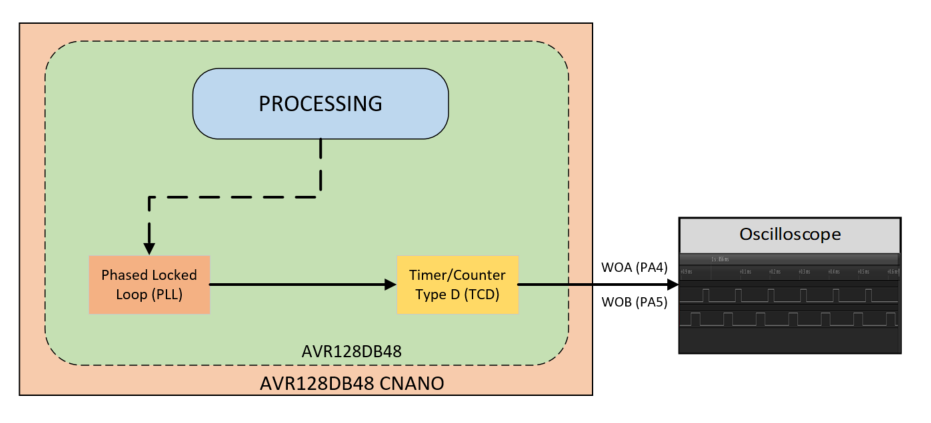
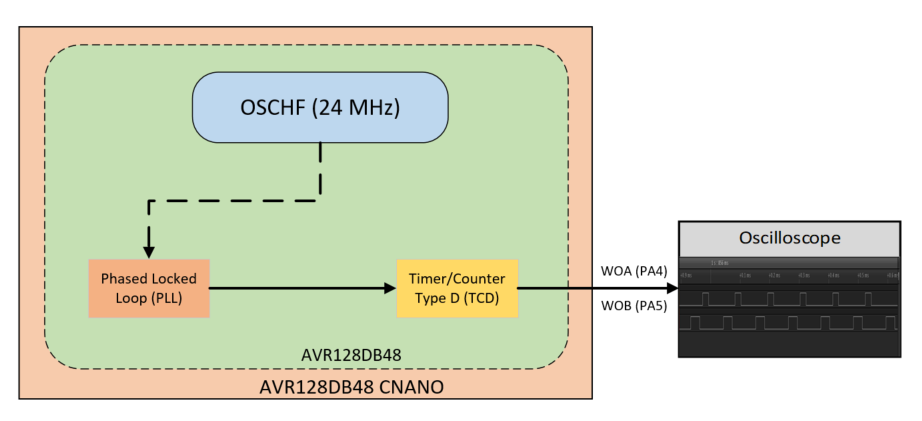
MPAE-15127 Readme File formatting post Final review

diff --git a/README.md b/README.md
@@ -4,7 +4,7 @@
 
 #  High-Frequency Clock Signal Generation for TCD using PLL and Internal High-Frequency RC Oscillator (OSCHF) using AVR128DB48
 
-This code example shows how the PLL feature of AVR128DB48 generates a high-frequency clock signal for the TCD peripheral of the AVR Dx family. In this code example, the PLL module is supplied with an OSCHF as input, to generate 48 MHz clock at its output. The generated 48 MHz clock signal is used as a clock input by the TCD peripheral.
+This code example demonstrates usage of AVR128DB48 microcontroller to generate 48MHz clock signal using PLL and OSCHF. In this code example, use of Timer/Counter type D (TCD) peripheral to realize peripheral clock frequency of 48MHz is demonstrated.
 
 ## Introduction
 
@@ -43,7 +43,27 @@ This example shows how to generate a high-frequency clock signal for the TCD per
 
 ## Application Firmware
 
-The example firmware uses a TCD peripheral to scale up the system clock frequency. In this firmware, the system clock is configured to operate at 24 MHz. The TCD peripheral is configured to run at 48 MHz with PLL as its clock input. Here, the multiplication factor is set to 2x to scale up the input clock frequency. Configure the TCD peripheral in Two Ramp mode. The compare Set and Clear registers A, B are loaded with 10 μs, 30 μs, 50 μs and 80 μs. The TCD peripheral is configured in two ramp mode. The waveform outputs are observed when the TCD peripheral is enabled.
+The example firmware uses a TCD peripheral to scale up the system clock frequency. In this firmware, the system clock is configured to operate at 24 MHz. The TCD peripheral is configured to run at 48 MHz with PLL as its clock input. Here, the PLL multiplication factor is set to 2x to scale up the input clock frequency. Configure the TCD peripheral in Two Ramp mode. The compare Set and Clear registers A, B are loaded with 10 μs, 30 μs, 50 μs and 80 μs. The TCD peripheral is configured in two ramp mode. The waveform outputs are observed when the TCD peripheral is enabled.
+
+## Demo Operation
+
+* Make the hardware connections as shown in the hardware setup. Power up the Curiosity Nano board using micro-USB cable.
+* Download the firmware available from the GitHub code example page.
+* Build the project using latest version of tools as mentioned in the Software Tools section and flash the generated file on the AVR128DB48 microcontroller.
+* Monitor the set and clear timings for waveform output A and B.
+
+<p align="center">
+  <img width=600 height=auto src="images/output_wave1.png">
+  <br>Figure 2: Wavefom Output A<br>
+</p>
+
+<p align="center">
+  <img width=600 height=auto src="images/output_wave2.png">
+  <br>Figure 3: Wavefom Output B<br>
+</p>
+
+## Conclusion
+This code example demonstrates generation of high frequency clock input to the TCD peripheral using PLL and OSCHF modules of the AVR128DB48 microcontroller. The real-world power stage control applications greatly benefitted with the TCD peripheral of AVR family of microcontrollers as it can generate high speed PWM waveform with a good resolution.
 
 ## Appendix
 
@@ -71,7 +91,7 @@ Open **Clock Control** setup present under **System** drop down menu in **Projec
 
 <p align="center">
   <img width=600 height=auto src="images/system_config.png">
-  <br>Figure 2: System Configuration<br>
+  <br>Figure 4: System Configuration<br>
 </p>
 
 * **TCD**
@@ -88,12 +108,12 @@ Open **TCD** setup present under **Driver** dropdown menu in **Project Resources
 
 <p align="center">
   <img width=600 height=auto src="images/tcd_config.png">
-  <br>Figure 3: TCD Configuration (Part-1)<br>
+  <br>Figure 5: TCD Configuration (Part-1)<br>
 </p>
 
 <p align="center">
   <img width=600 height=auto src="images/tcd_config1.png">
-  <br>Figure 4: TCD Configuration (Part-2)<br>
+  <br>Figure 6: TCD Configuration (Part-2)<br>
 </p>
 
 ## Pin Mapping
@@ -101,12 +121,12 @@ The following images informs about the pin usage in the project.
 
 <p align="center">
   <img width=600 height=auto src="images/pin_config.png">
-  <br>Figure 5: Pin Mapping (List View)<br>
+  <br>Figure 7: Pin Mapping (List View)<br>
 </p>
 
 <p align="center">
   <img width=600 height=auto src="images/pin_config1.png">
-  <br>Figure 6: Pin Mapping (Navigation View)<br>
+  <br>Figure 8: Pin Mapping (Navigation View)<br>
 </p>
 
 ## Hardware Setup
@@ -114,15 +134,5 @@ The following figure consists of AVR128DB48 Curiosity Nano Evaluation kit along 
 
 <p align="center">
   <img width=600 height=auto src="images/setup.png">
-  <br>Figure 7: Hardware Setup<br>
+  <br>Figure 9: Hardware Setup<br>
 </p>
-
-## Demo Operation
-
-* Make the hardware connections as shown in the hardware setup. Power up the Curiosity Nano board using micro-USB cable.
-* Download the firmware available from the GitHub code example page.
-* Build the project using latest version of tools as mentioned in the Software Tools section and flash the generated file on the AVR128DB48 microcontroller.
-* Monitor the set and clear timings for waveform output A and B.
-
-## Conclusion
-This code example demonstrates generation of high frequency clock input to the TCD peripheral using PLL and OSCHF modules of the AVR128DB48 microcontroller. The real-world power stage control applications greatly benefitted with the TCD peripheral of AVR family of microcontrollers as it can generate high speed PWM waveform with a good resolution.
